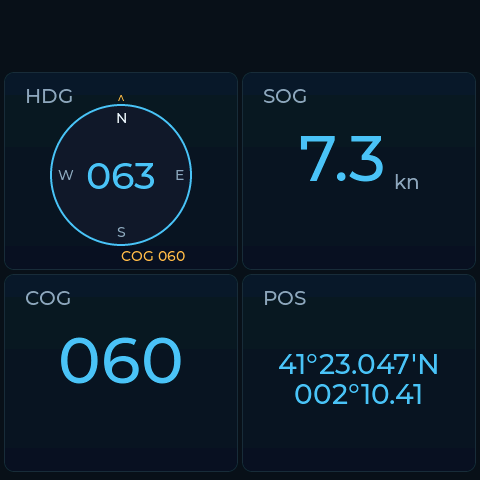
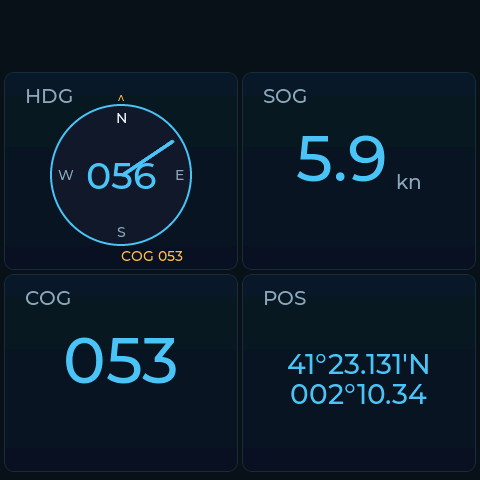
fix(ui): live rotating needle on small wind + compass widgets
The dashboard wind widget and the heading compass showed only a ring + number
with a static marker - the visual wasn't live. Added a rotating needle (handle)
pinned to the ring centre: the windRose needle tracks apparent wind angle (AWA),
the compass needle tracks the heading bearing, both updated every tick in
update_quad_grid (quantized, cached to skip redundant transforms). The wind
widget now reads as a proper rose + handle. Verified on device (refreshed
docs/images/screen-dashboard.png + screen-nav.png).

SP3.

diff --git a/src/ui/ui_layouts.cpp b/src/ui/ui_layouts.cpp
@@ -415,6 +415,30 @@ static void paint_numeric_body(QuadGridTile &t, const MetricBinding &m, int w, i
     }
 }
 
+// A thin rotating needle pinned to a ring's centre, pointing up at 0°.
+// Rotated live (transform_rotation, 0.1° units) to show heading / wind angle.
+// Returned in t.aux2 so update_quad_grid can spin it.
+static lv_obj_t *make_needle(lv_obj_t *ring, int dia, uint32_t color) {
+    int len = dia / 2 - 8;
+    if (len < 12) len = 12;
+    lv_obj_t *n = lv_obj_create(ring);
+    lv_obj_set_size(n, 4, len);
+    // Place the needle's bottom at the ring centre, extending up.
+    lv_obj_align(n, LV_ALIGN_CENTER, 0, -len / 2);
+    lv_obj_set_style_bg_color(n, lv_color_hex(color), 0);
+    lv_obj_set_style_bg_opa(n, LV_OPA_COVER, 0);
+    lv_obj_set_style_border_width(n, 0, 0);
+    lv_obj_set_style_radius(n, 2, 0);
+    lv_obj_set_style_pad_all(n, 0, 0);
+    // Pivot at the needle's bottom-centre == ring centre, so rotation sweeps
+    // the tip around the dial.
+    lv_obj_set_style_transform_pivot_x(n, 2, 0);
+    lv_obj_set_style_transform_pivot_y(n, len, 0);
+    lv_obj_clear_flag(n, LV_OBJ_FLAG_SCROLLABLE);
+    lv_obj_clear_flag(n, LV_OBJ_FLAG_CLICKABLE);
+    return n;
+}
+
 // Compass widget: round bezel with accent border, heading number in the
 // center, small "▲" marker at top, CTS label at bottom. Mirrors editor
 // .wpreview .compass.
@@ -437,7 +461,10 @@ static void paint_compass_body(QuadGridTile &t, const MetricBinding &m, int w, i
     lv_obj_clear_flag(ring, LV_OBJ_FLAG_CLICKABLE);
     t.aux = ring;
 
-    // Top marker (warn-colored triangle approximation via label).
+    // Heading needle (rotated live in update_quad_grid to the heading bearing).
+    t.aux2 = make_needle(ring, dia, theme.accent);
+
+    // Fixed top marker (lubber line) so the heading needle reads against it.
     lv_obj_t *marker = lv_label_create(t.root);
     lv_label_set_text(marker, "^");
     lv_obj_set_style_text_font(marker, &lv_font_montserrat_14, 0);
@@ -589,6 +616,10 @@ static void paint_wind_rose_body(QuadGridTile &t, const MetricBinding & /*m*/, i
     lv_obj_clear_flag(ring, LV_OBJ_FLAG_SCROLLABLE);
     lv_obj_clear_flag(ring, LV_OBJ_FLAG_CLICKABLE);
     t.aux = ring;
+
+    // Apparent-wind needle (rotated live in update_quad_grid to AWA). Drawn
+    // before the value label so the number sits on top at the hub.
+    t.aux2 = make_needle(ring, dia, theme.warn);
 
     // Wind speed (AWS) is the hero number, sized to dominate the ring.
     const lv_font_t *vfont = &lv_font_montserrat_28;
@@ -799,6 +830,18 @@ static lv_obj_t *create_quad_grid(lv_obj_t *parent, const ScreenVariantSpec &spe
     return root;
 }
 
+// Rotate a tile's needle (t.aux2) to `deg` (display degrees, 0 = up/N).
+// Quantized to whole degrees; last value cached in t.last_aux_pct to skip
+// redundant transforms. No-op if the tile has no needle or data is NaN.
+static void rotate_needle(QuadGridTile &t, double deg) {
+    if (!t.aux2 || isnan(deg)) return;
+    int d = ((int)lround(deg)) % 360;
+    if (d < 0) d += 360;
+    if (d == t.last_aux_pct) return;
+    lv_obj_set_style_transform_rotation(t.aux2, d * 10, 0);
+    t.last_aux_pct = d;
+}
+
 static void update_quad_grid(lv_obj_t *root, const ScreenVariantSpec &spec, const sk::Data &data) {
     if (!root) return;
     auto *st = (QuadGridState *)lv_obj_get_user_data(root);
@@ -867,6 +910,8 @@ static void update_quad_grid(lv_obj_t *root, const ScreenVariantSpec &spec, cons
                 ui::set_text_if_changed(t.secondary, t.last_secondary, sizeof(t.last_secondary),
                                         cts);
             }
+            // Spin the heading needle live to the heading bearing.
+            rotate_needle(t, metric_scalar(m, data));
             break;
         default:
             // Numeric, Compass, WindRose, Text, Trend fallback - all use
@@ -875,6 +920,12 @@ static void update_quad_grid(lv_obj_t *root, const ScreenVariantSpec &spec, cons
             if (t.secondary) {
                 ui::set_text_if_changed(t.secondary, t.last_secondary, sizeof(t.last_secondary),
                                         sec);
+            }
+            // WindRose: spin the apparent-wind needle to AWA.
+            if (t.kind == WidgetKind::WindRose) {
+                MetricBinding awa = {};
+                awa.source = MetricSource::AWA_deg;
+                rotate_needle(t, metric_scalar(awa, data));
             }
             break;
         }